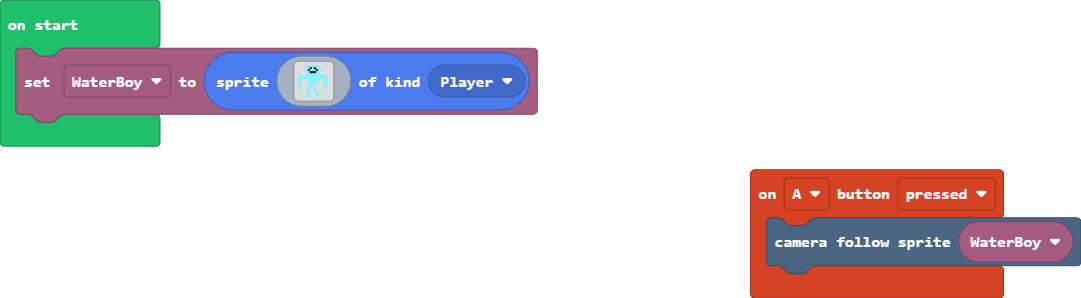
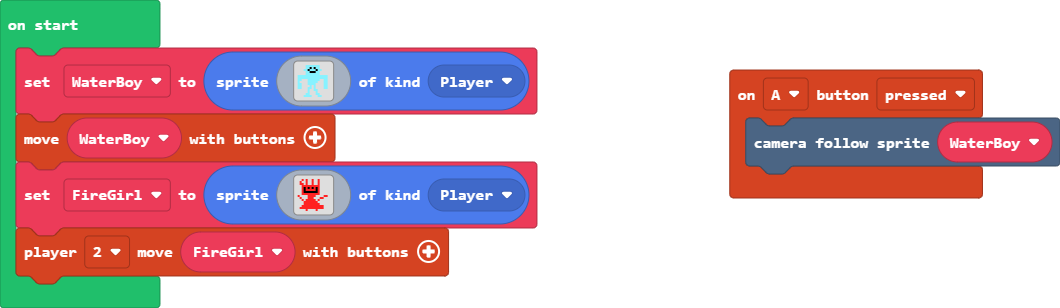
Update pxt.json, main.blocks, main.ts

diff --git a/main.ts b/main.ts
@@ -20,3 +20,23 @@ WaterBoy = sprites.create(img`
     . . . . 9 9 . . . 9 9 . . . . . 
     . . . 9 9 9 9 . . . 9 9 . . . . 
     `, SpriteKind.Player)
+controller.moveSprite(WaterBoy)
+let FireGirl = sprites.create(img`
+    . . 2 . 2 . . 2 . . 2 . . . . . 
+    . 2 . . 2 . . 2 . . 2 . . . . . 
+    . 2 2 . 2 . . 2 . . 2 . . . . . 
+    . . 2 2 2 2 2 2 2 2 2 . . . . . 
+    . . 2 f 2 f 2 f 2 f 2 . . . . . 
+    . . 2 f 2 2 2 2 2 f 2 . . . . . 
+    . . 2 f f f f f f f 2 . . . . . 
+    . . 2 2 2 2 2 2 2 2 2 . . . . . 
+    2 . . . . 2 2 2 2 . . . . 2 2 . 
+    . 2 . . . 2 2 2 . . . 2 2 . . . 
+    . . 2 . 2 2 2 2 2 . 2 . . . . . 
+    . . . 2 2 2 2 2 2 2 . . . . . . 
+    . . . 2 2 2 2 2 2 2 2 . . . . . 
+    . . 2 2 2 2 2 2 2 2 2 2 2 . . . 
+    . 2 2 2 2 2 2 2 2 2 2 2 2 . . . 
+    . . . . 2 . . . . 2 . . . . . . 
+    `, SpriteKind.Player)
+controller.player2.moveSprite(FireGirl)
